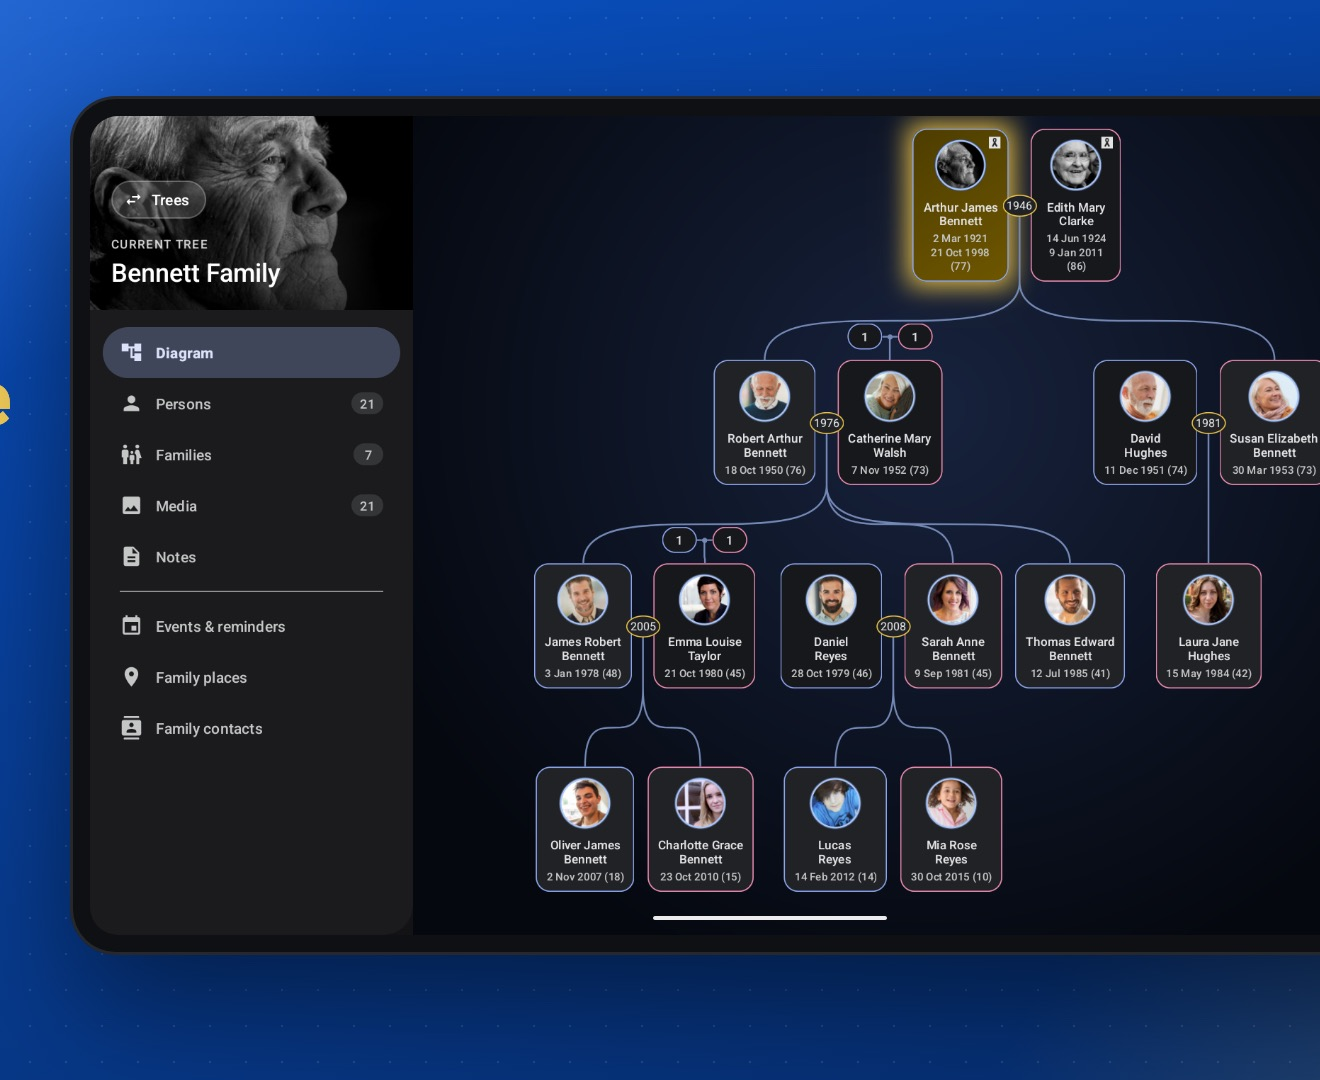
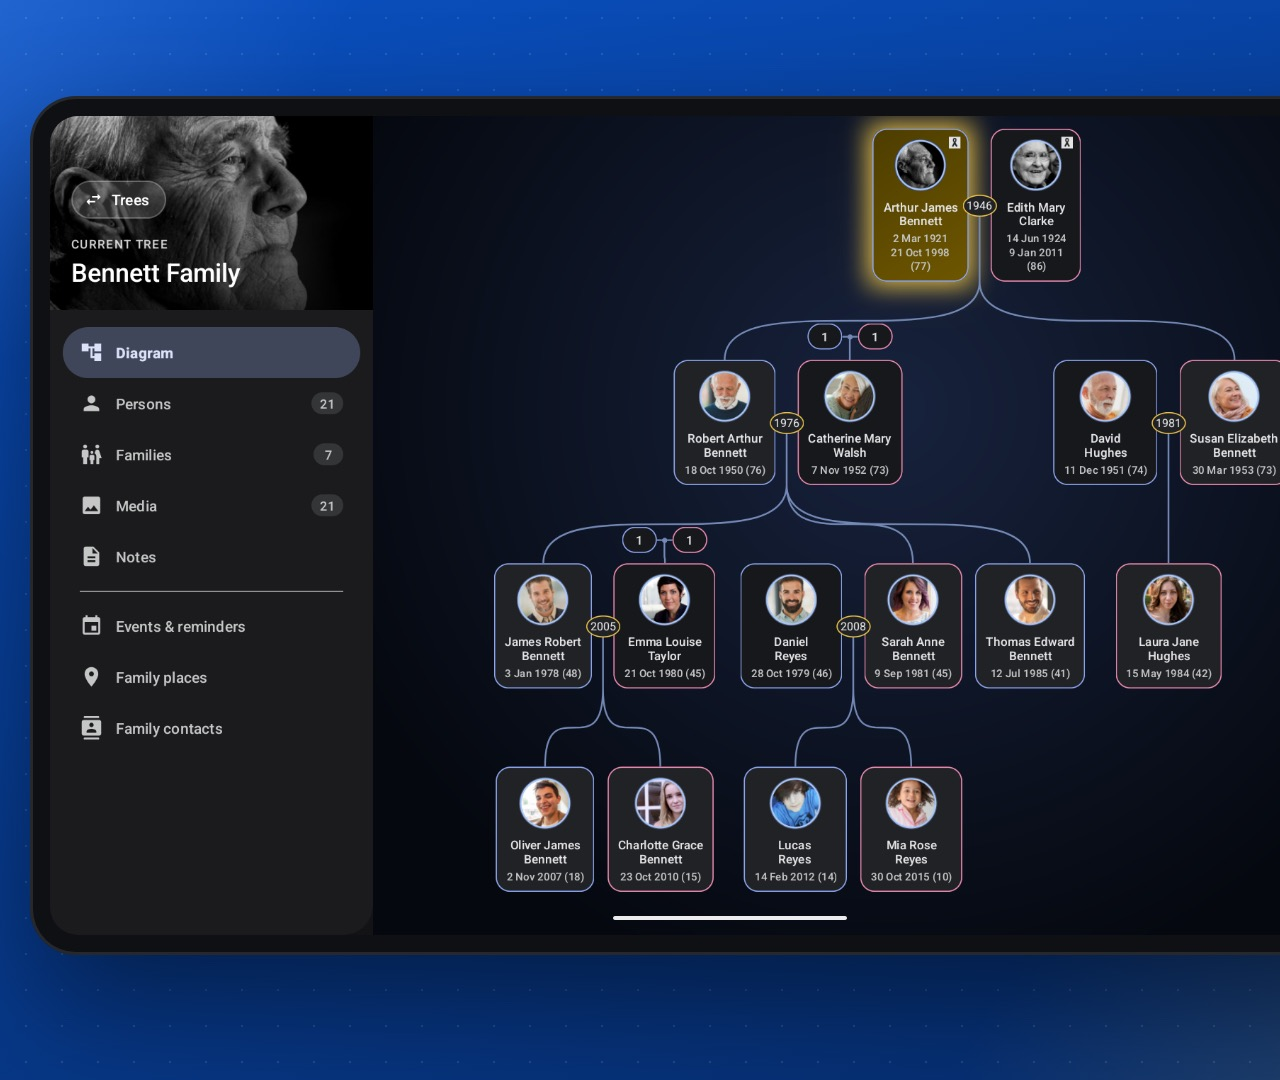
UI audit fixes across desktop, tablet and phone
Align product-page content with the navigation; crop empty bands from
tablet screenshots; brighten the logo's "AI" on dark pages; remove gaps
between dark Gravito sections; drop stray full stops from section
headings; full logo in the home footer; keep products and services in
columns on tablets; grouped feature list and even-width buttons on phones.

diff --git a/assets/css/site.css b/assets/css/site.css
@@ -26,7 +26,7 @@
   --grad: linear-gradient(92deg, #1e6be6 0%, #4a46e8 55%, #8b3ff2 100%);
   --nav-h: 64px;
   --ease: cubic-bezier(0.4, 0, 0.6, 1);
-  --container: 980px;
+  --container: 1120px;
   --wide: 1260px;
   --radius: 28px;
 }
@@ -618,7 +618,7 @@ ul, ol { padding: 0; list-style: none; }
   border-radius: var(--radius);
   background: var(--card);
 }
-.bigscreen-media img { width: 100%; }
+.bigscreen-media img { width: 100%; aspect-ratio: 16 / 11; object-fit: cover; object-position: 50% 60%; }
 
 /* ------------------------------------------------------------------ feature grid */
 
@@ -1124,7 +1124,8 @@ html.reveal-armed [data-reveal].is-visible { opacity: 1; transform: none; }
 .product-col:hover .product-col-arrow .arrow { transform: translateX(4px); }
 .product-col:hover h3 { color: #2650d9; }
 .proof { background: var(--bg-alt); }
-@media (max-width: 834px) { .product-cols { grid-template-columns: 1fr; gap: 40px; margin-top: 36px; } }
+@media (max-width: 600px) { .product-cols { grid-template-columns: 1fr; gap: 40px; margin-top: 36px; } }
+@media (min-width: 601px) and (max-width: 834px) { .product-col img { width: 92px; height: 92px; border-radius: 21px; } .product-col h3 { font-size: 22px; } .product-col p { font-size: 15px; } }
 @media (prefers-reduced-motion: reduce) { .product-col img, .product-col:hover img { transform: none; transition: none; } }
 
 /* ================================================================== AI solutions band */
@@ -1159,7 +1160,8 @@ html.reveal-armed [data-reveal].is-visible { opacity: 1; transform: none; }
 @media (max-width: 834px) {
   .solutions-band { grid-template-columns: 1fr; min-height: 0; }
   .band-copy { padding: 44px 32px 8px; }
-  .band-media { padding: 8px 24px 32px; }
+  .band-media { padding: 8px 24px 36px; }
+  .band-media img { max-width: 440px; }
 }
 @media (max-width: 734px) { .band-wrap { padding: 0 12px; } .band-headline { font-size: 32px; } }
 
@@ -1181,7 +1183,7 @@ html.reveal-armed [data-reveal].is-visible { opacity: 1; transform: none; }
 .svc-icon { width: 40px; height: 40px; flex: none; color: var(--text); }
 .service strong { display: block; font-size: 18px; font-weight: 700; letter-spacing: -0.02em; line-height: 1.3; transition: color 0.2s var(--ease); }
 .service small { display: block; margin-top: 6px; color: var(--text-2); font-size: 15px; line-height: 1.5; }
-@media (max-width: 834px) {
+@media (max-width: 734px) {
   .services { grid-template-columns: 1fr; }
   .services li + li { border-left: 0; border-top: 1px solid var(--line); }
   .service, .services li:first-child .service { padding: 20px 0; }
@@ -1341,3 +1343,26 @@ html.reveal-armed [data-reveal].is-visible { opacity: 1; transform: none; }
 
 
 .page-hero.about-top::after, .page-hero.support-top::after, .contact-hero::after { display: none; }
+
+/* ================================================================== UI audit fixes */
+.theme-gravito .features { background: var(--bg); }
+.footer-logo img { display: block; height: 26px; width: auto; }
+.footer-logo { opacity: 1 !important; }
+
+/* phone: feature cards become one grouped list */
+@media (max-width: 734px) {
+  .feature-grid:not(.three) { gap: 0; border-radius: 20px; overflow: hidden; background: var(--card-on-alt); }
+  .feature-grid:not(.three) .feature { padding: 20px 22px; border-radius: 0; background: transparent; }
+  .feature-grid:not(.three) .feature + .feature { border-top: 1px solid var(--line); }
+  .feature-grid:not(.three) .feature h3 { font-size: 17px; }
+  .feature-grid:not(.three) .feature p { margin-top: 6px; font-size: 15px; }
+  .services li:first-child .service { padding-top: 0; }
+}
+@media (min-width: 735px) and (max-width: 834px) {
+  .service { padding: 8px 18px; gap: 12px; }
+  .service small { font-size: 14px; }
+}
+@media (max-width: 734px) {
+  .product-hero .ctas, .final-cta .ctas { flex-direction: column; align-items: center; }
+  .product-hero .ctas .pill, .final-cta .ctas .pill { width: min(300px, 100%); }
+}

diff --git a/family-tree/index.html b/family-tree/index.html
@@ -110,7 +110,7 @@
 </div></div>
 </section><section class="section gallery-section" aria-labelledby="highlights">
   <div class="container">
-    <h2 class="section-headline" id="highlights">Get the highlights<span class="dot">.</span></h2>
+    <h2 class="section-headline" id="highlights">Get the highlights</h2>
   </div>
   <div class="gallery" data-gallery>
     <ul class="gallery-track" tabindex="0" aria-label="Highlights"><li class="gallery-card">
@@ -164,18 +164,18 @@
   <div class="container">
     <h2 class="section-headline center">The whole family at a glance<span class="dot">.</span></h2>
     <p class="section-intro center">Zoom and drag across generations on tablets and foldables, and tap anyone to center the tree on them.</p>
-    <div class="bigscreen-media" data-reveal><img class="" src="/assets/img/family-tree/tablet.jpg" alt="The whole family at a glance." width="1320" height="1080" loading="lazy" decoding="async"></div>
+    <div class="bigscreen-media" data-reveal><img class="" src="/assets/img/family-tree/tablet.jpg" alt="The whole family at a glance." width="1280" height="1080" loading="lazy" decoding="async"></div>
   </div>
 </section><section class="section features">
   <div class="container">
-    <h2 class="section-headline">Built for real family history<span class="dot">.</span></h2>
+    <h2 class="section-headline">Built for real family history</h2>
     <ul class="feature-grid"><li class="feature" data-reveal style="--d:0ms"><h3>Every kind of family</h3><p>Adoptive, foster and half-siblings are shown as they are, not lumped together.</p></li><li class="feature" data-reveal style="--d:120ms"><h3>You choose the view</h3><p>From a plain pedigree of direct ancestors to descendants, cousins and great-uncles.</p></li><li class="feature" data-reveal style="--d:240ms"><h3>Find errors</h3><p>When something doesn't add up, Family Tree points you to it.</p></li><li class="feature" data-reveal style="--d:0ms"><h3>GEDCOM 5.5.1</h3><p>Open a .ged file from another genealogy program and carry on where you left off.</p></li><li class="feature" data-reveal style="--d:120ms"><h3>Share and update</h3><p>Send your tree to relatives. They add what they know, and you choose which changes to keep.</p></li><li class="feature" data-reveal style="--d:240ms"><h3>Photos and files</h3><p>Attach photos, documents, audio and video, and crop images. On Android 13 and later, the app only gets what you choose.</p></li><li class="feature" data-reveal style="--d:0ms"><h3>Big trees</h3><p>Large trees open and save in the background, so you can keep working.</p></li><li class="feature" data-reveal style="--d:120ms"><h3>Light and dark</h3><p>Switch between light and dark, and choose from 20 color themes with Premium.</p></li><li class="feature" data-reveal style="--d:240ms"><h3>31 languages</h3><p>Including Arabic, Hebrew, Persian and Kurdish, written right to left.</p></li></ul>
   </div>
 </section><section class="section premium">
   <div class="container">
     <div class="premium-card" data-reveal>
       <div class="premium-copy">
-        <h2 class="section-headline">Family Tree Premium<span class="dot">.</span></h2>
+        <h2 class="section-headline">Family Tree Premium</h2>
         <p class="section-intro">Family Tree is free, with no limit on trees or people. Premium removes ads and adds more.</p>
         <p class="premium-note">Monthly, or as a one-time purchase, through Google Play.</p>
       </div>

diff --git a/gravito/index.html b/gravito/index.html
@@ -110,7 +110,7 @@
 </div></div>
 </section><section class="section gallery-section" aria-labelledby="highlights">
   <div class="container">
-    <h2 class="section-headline" id="highlights">Get the highlights<span class="dot">.</span></h2>
+    <h2 class="section-headline" id="highlights">Get the highlights</h2>
   </div>
   <div class="gallery" data-gallery>
     <ul class="gallery-track" tabindex="0" aria-label="Highlights"><li class="gallery-card">
@@ -156,7 +156,7 @@
   </div>
 </section><section class="section steps-section">
   <div class="container">
-    <h2 class="section-headline">How to play<span class="dot">.</span></h2>
+    <h2 class="section-headline">How to play</h2>
     <ol class="steps"><li class="step"><span class="step-num" aria-hidden="true">1</span><p>Tap a bottle, then tap another to pour the top color into it.</p></li><li class="step"><span class="step-num" aria-hidden="true">2</span><p>Pour only onto the same color, or into an empty bottle.</p></li><li class="step"><span class="step-num" aria-hidden="true">3</span><p>Stuck? Flip gravity or turn a bottle to reach the color at the bottom.</p></li><li class="step"><span class="step-num" aria-hidden="true">4</span><p>Gather each color into its own bottle to win, in as few moves as you can.</p></li></ol>
   </div>
 </section><section class="section statement statement-dark">
@@ -167,7 +167,7 @@
   </div>
 </section><section class="section features">
   <div class="container">
-    <h2 class="section-headline">Made to be played your way<span class="dot">.</span></h2>
+    <h2 class="section-headline">Made to be played your way</h2>
     <ul class="feature-grid"><li class="feature" data-reveal style="--d:0ms"><h3>New twists</h3><p>Episodes bring gravity flips, quarter turns, sideways gravity, mystery colors, one-way seals and valves.</p></li><li class="feature" data-reveal style="--d:120ms"><h3>Proven solvable</h3><p>Every one of the 520 levels has been checked by a solver.</p></li><li class="feature" data-reveal style="--d:240ms"><h3>Hints and undos</h3><p>Three free undos on every attempt, and hints when you need them.</p></li><li class="feature" data-reveal style="--d:0ms"><h3>Rankings</h3><p>Climb the all-time and weekly rankings with Google Play Games.</p></li><li class="feature" data-reveal style="--d:120ms"><h3>Cloud save</h3><p>With Google Play Games, your progress follows you to a new phone.</p></li><li class="feature" data-reveal style="--d:240ms"><h3>Plays offline</h3><p>Every level plays without a connection. Play anywhere.</p></li><li class="feature" data-reveal style="--d:0ms"><h3>Color-blind patterns</h3><p>Patterns make every color easy to tell apart.</p></li><li class="feature" data-reveal style="--d:120ms"><h3>Reduced motion</h3><p>A calmer setting for smoother, simpler animations.</p></li><li class="feature" data-reveal style="--d:240ms"><h3>13 languages</h3><p>Play in the language you're most comfortable with.</p></li></ul>
   </div>
 </section><section class="section details" aria-labelledby="details">

diff --git a/smart-notes/index.html b/smart-notes/index.html
@@ -110,7 +110,7 @@
 </div></div>
 </section><section class="section gallery-section" aria-labelledby="highlights">
   <div class="container">
-    <h2 class="section-headline" id="highlights">Get the highlights<span class="dot">.</span></h2>
+    <h2 class="section-headline" id="highlights">Get the highlights</h2>
   </div>
   <div class="gallery" data-gallery>
     <ul class="gallery-track" tabindex="0" aria-label="Highlights"><li class="gallery-card">
@@ -168,14 +168,14 @@
   </div>
 </section><section class="section features">
   <div class="container">
-    <h2 class="section-headline">And so much more<span class="dot">.</span></h2>
+    <h2 class="section-headline">And so much more</h2>
     <ul class="feature-grid"><li class="feature" data-reveal style="--d:0ms"><h3>Rich text</h3><p>Bold, italic, underline, highlight, colors, bullets and numbered lists.</p></li><li class="feature" data-reveal style="--d:120ms"><h3>Sketches</h3><p>Draw with a pen, pencil or marker in a full palette of colors.</p></li><li class="feature" data-reveal style="--d:240ms"><h3>Search</h3><p>Search all your notes at once, and jump between notes, checklists, reminders and pinned notes.</p></li><li class="feature" data-reveal style="--d:0ms"><h3>Calendar view</h3><p>See your notes and reminders day by day.</p></li><li class="feature" data-reveal style="--d:120ms"><h3>Categories</h3><p>Sort notes into categories, or create your own. Pin what matters to the top.</p></li><li class="feature" data-reveal style="--d:240ms"><h3>Trash with Undo</h3><p>Swipe to delete, then restore anything from the Trash.</p></li><li class="feature" data-reveal style="--d:0ms"><h3>Export and share</h3><p>Share notes as text, an image or a PDF.</p></li><li class="feature" data-reveal style="--d:120ms"><h3>Save from any app</h3><p>Send text from your browser or any app straight into a note.</p></li><li class="feature" data-reveal style="--d:240ms"><h3>27 languages</h3><p>From English and Hindi to Japanese, Tamil and Turkish.</p></li></ul>
   </div>
 </section><section class="section premium">
   <div class="container">
     <div class="premium-card" data-reveal>
       <div class="premium-copy">
-        <h2 class="section-headline">Smart Notes Premium<span class="dot">.</span></h2>
+        <h2 class="section-headline">Smart Notes Premium</h2>
         <p class="section-intro">Smart Notes is free. Premium removes ads and unlocks extras.</p>
         <p class="premium-note">A one-time purchase, or a monthly or yearly subscription, through Google Play.</p>
       </div>

diff --git a/about/index.html b/about/index.html
@@ -60,7 +60,7 @@
   <div class="container wide founder-grid">
     <figure class="founder-photo"><img src="/assets/img/founder/portrait.jpg" alt="John Ruban Singh, founder of Digital AI Labs" width="792" height="990" loading="lazy"></figure>
     <div class="founder-copy">
-      <h2 class="section-headline">Meet the founder<span class="dot">.</span></h2>
+      <h2 class="section-headline">Meet the founder</h2>
       <p class="founder-name">John Ruban Singh</p>
       <p class="founder-role">Founder and developer</p>
       <p>John Ruban Singh founded Digital AI Labs to make fast, focused Android apps that respect your privacy. John designs, builds and supports every app the studio publishes, from Smart Notes and Family Tree to Gravito.</p>
@@ -69,7 +69,7 @@
 </section>
 <section class="section values">
   <div class="container wide">
-    <h2 class="section-headline">What we believe<span class="dot">.</span></h2>
+    <h2 class="section-headline">What we believe</h2>
     <ul class="feature-grid three">
       <li class="feature"><h3>Your data is yours</h3><p>No accounts needed, and no servers of our own. Your notes and your family history stay on your phone.</p></li>
       <li class="feature"><h3>Offline first</h3><p>Our apps work without a connection, so they're ready wherever you are.</p></li>
@@ -79,7 +79,7 @@
 </section>
 <section class="section apps-row">
   <div class="container wide">
-    <h2 class="section-headline">Our apps<span class="dot">.</span></h2>
+    <h2 class="section-headline">Our apps</h2>
     <ul class="app-cards">
       <li><a href="/smart-notes/"><img src="/assets/img/icons/smart-notes.png" alt="" width="88" height="88" loading="lazy"><h3>Smart Notes</h3></a></li>
       <li><a href="/family-tree/"><img src="/assets/img/icons/family-tree.png" alt="" width="88" height="88" loading="lazy"><h3>Family Tree</h3></a></li>

diff --git a/support/index.html b/support/index.html
@@ -64,7 +64,7 @@
 </section>
 <section class="section faq-section">
   <div class="container wide faq-inner">
-    <h2 class="section-headline">Frequently asked questions<span class="dot">.</span></h2>
+    <h2 class="section-headline">Frequently asked questions</h2>
     <details class="faq"><summary>Do I need an account?</summary><p>No. Smart Notes, Family Tree and Gravito work without an account or sign-up.</p></details><details class="faq"><summary>Where is my data stored?</summary><p>On your device. Smart Notes can also back up to your own Google Drive, and Family Tree saves backups to a folder you choose. If you sign in to Google Play Games, Gravito keeps a cloud save in your own Google account.</p></details><details class="faq"><summary>How do I remove ads?</summary><p>Smart Notes and Family Tree offer Premium, which removes ads. Gravito has no banner or interstitial ads: a reward video plays only when you tap Watch.</p></details><details class="faq"><summary>I bought Premium on another phone. How do I get it back?</summary><p>Sign in to Google Play with the same Google account you used to buy it, then open the app. Purchases are restored through Google Play.</p></details><details class="faq"><summary>How do I get a refund?</summary><p>Purchases are handled by Google Play. You can request a refund through <a href="https://support.google.com/googleplay/answer/2479637">Google Play's refund page</a>.</p></details><details class="faq"><summary>How do I delete my data?</summary><p>Delete notes or trees in the app, or uninstall it. In Gravito, Settings › Reset progress erases your progress and overwrites your cloud save, and your Play Games data can be managed in the Play Games app or your Google Account.</p></details>
   </div>
 </section>

diff --git a/index.html b/index.html
@@ -131,7 +131,7 @@
 </main>
 <footer class="footer">
   <div class="footer-inner">
-    <nav class="breadcrumbs" aria-label="Breadcrumb"><a href="/" class="crumb-home" aria-label="Digital AI Labs"><img class="mark" src="/assets/img/brand/mark.svg" alt="" width="100" height="90"></a></nav>
+    <nav class="breadcrumbs" aria-label="Breadcrumb"><a href="/" class="footer-logo" aria-label="Digital AI Labs home"><img src="/assets/img/brand/logo.png" alt="" width="612" height="120"></a></nav>
     <div class="directory">
       <div class="dir-col">
         <h3>Products</h3>

diff --git a/404.html b/404.html
@@ -57,7 +57,7 @@
 </main>
 <footer class="footer">
   <div class="footer-inner">
-    <nav class="breadcrumbs" aria-label="Breadcrumb"><a href="/" class="crumb-home" aria-label="Digital AI Labs"><img class="mark" src="/assets/img/brand/mark.svg" alt="" width="100" height="90"></a></nav>
+    <nav class="breadcrumbs" aria-label="Breadcrumb"><a href="/" class="footer-logo" aria-label="Digital AI Labs home"><img src="/assets/img/brand/logo.png" alt="" width="612" height="120"></a></nav>
     <div class="directory">
       <div class="dir-col">
         <h3>Products</h3>
